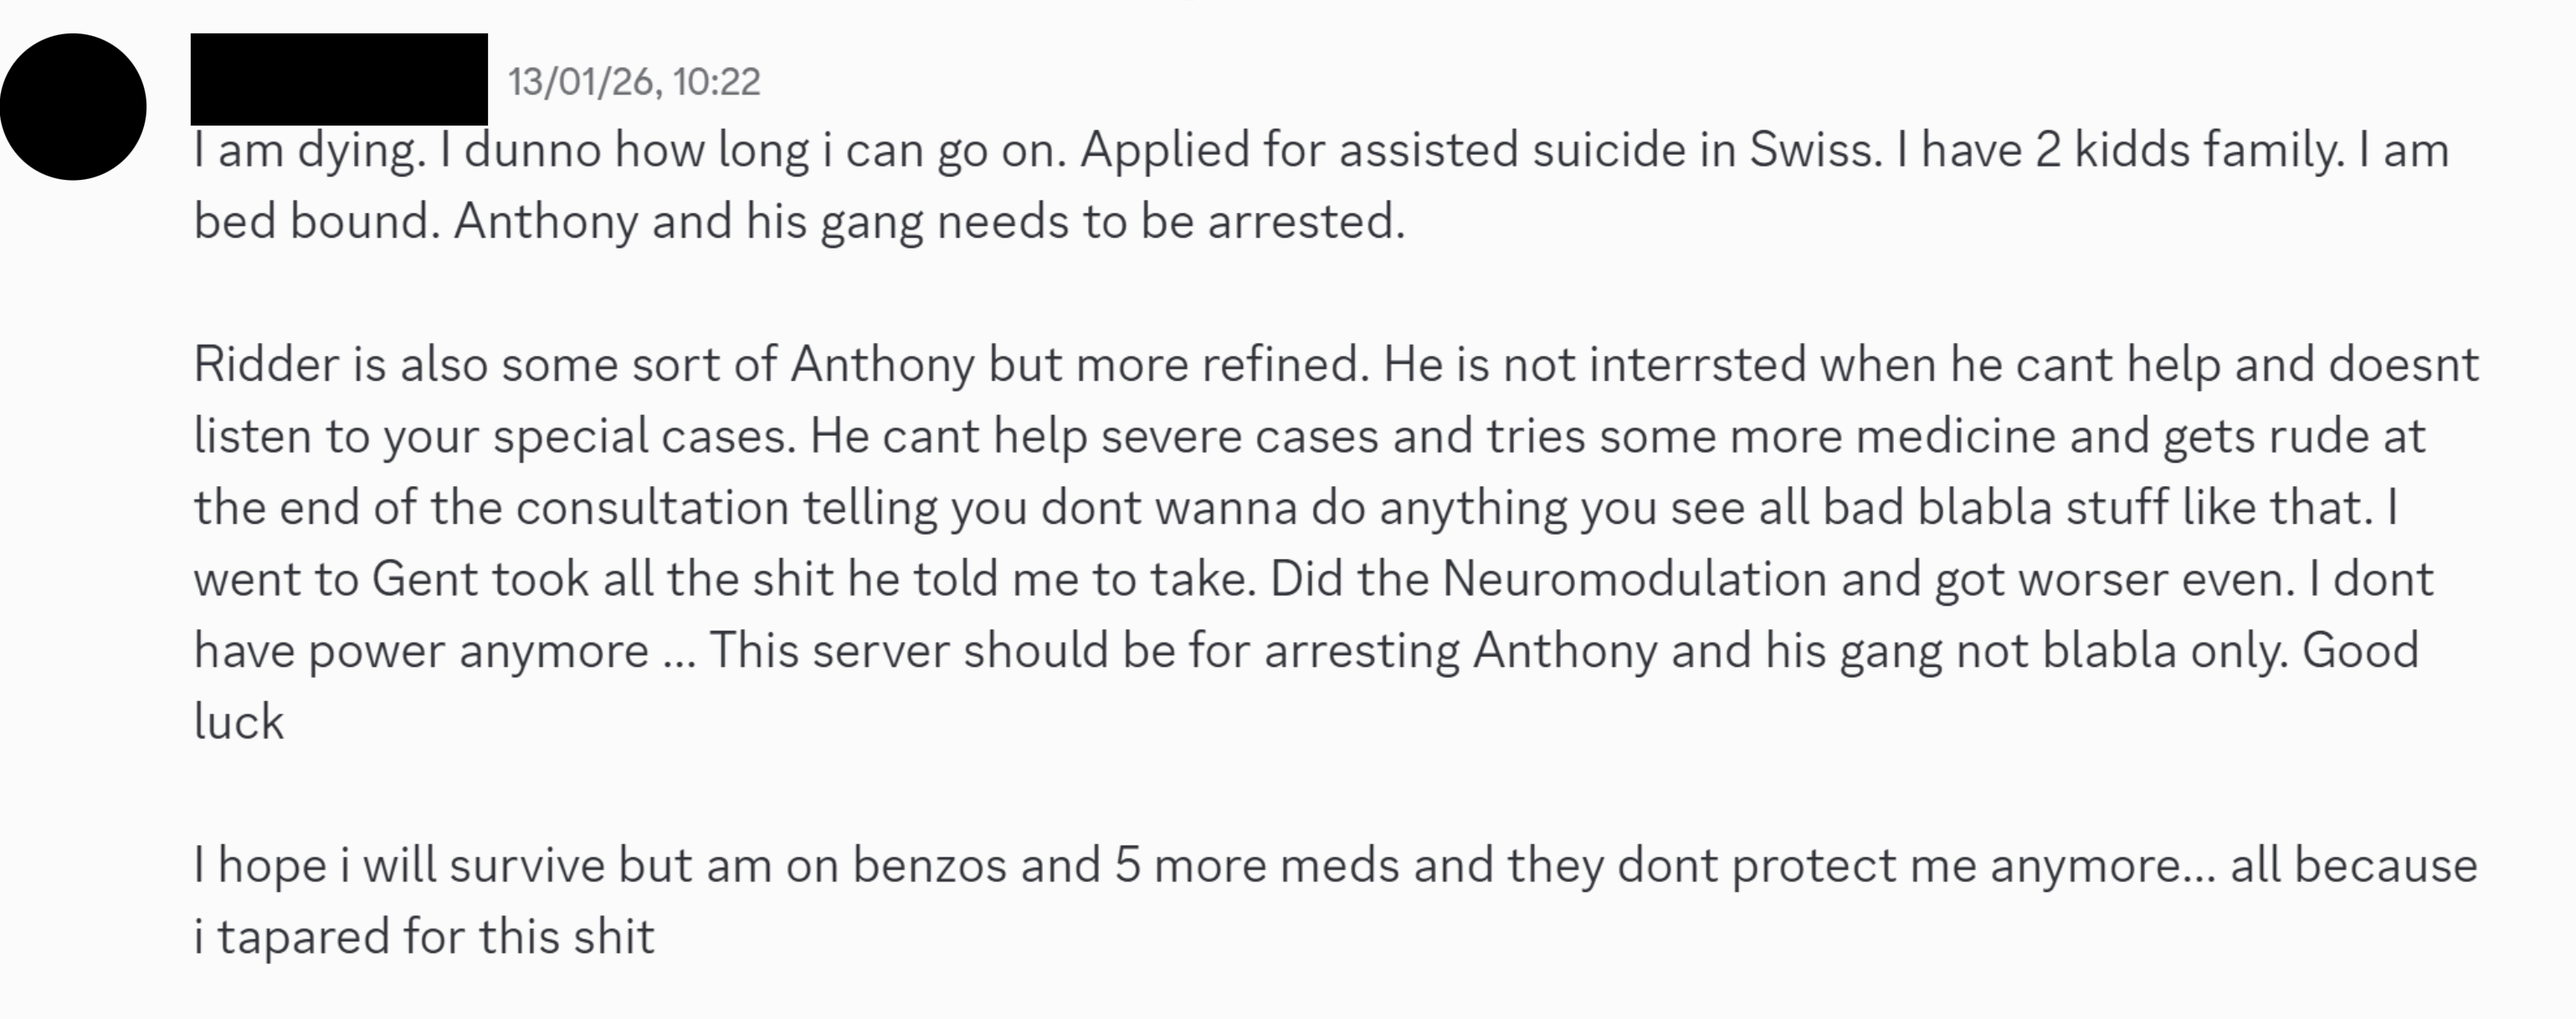
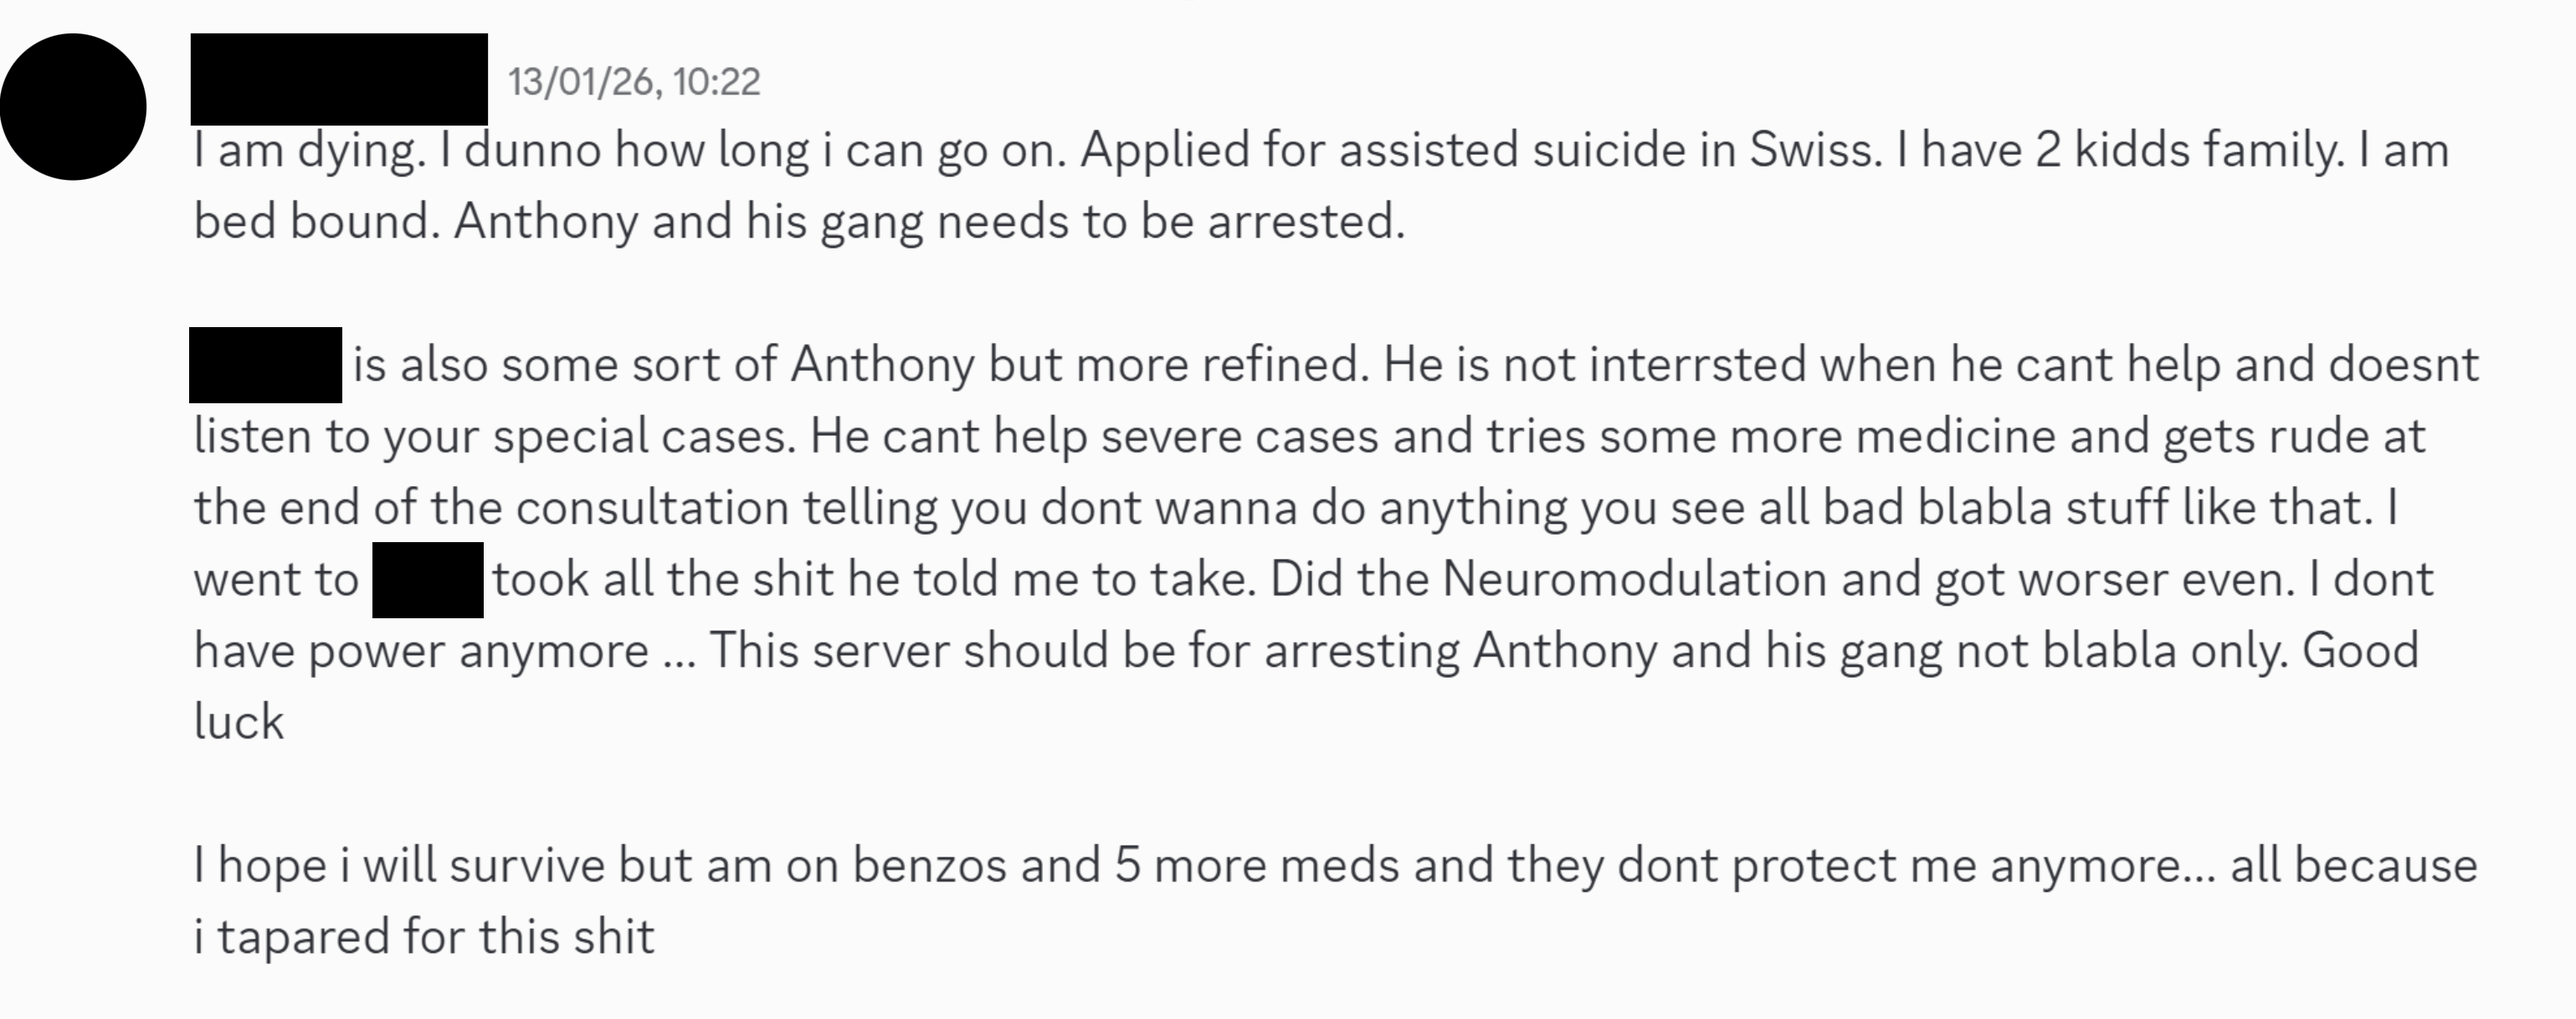
final edits

Changed region(s): [[0.0624, 0.312, 0.1559, 0.4056], [0.1248, 0.5304, 0.1871, 0.624]]

diff --git a/index.html b/index.html
@@ -191,7 +191,7 @@ p strong {
 
     <p>In late 2024, an unregulated experiment began circulating through online tinnitus communities. The participants suffered from debilitating hearing disorders such as tinnitus (phantom sounds like ringing), hyperacusis (normal sounds perceived as unbearably loud), and noxacusis (physical pain from sound). Many were isolated and homebound, with few treatment options and little hope of relief. An anonymous figure known as <strong>"Anthony"</strong> invited them to try an experimental device called the "Guinea Guy Device", or <strong>GGD</strong>. He presented it as scientifically grounded, modeled after published research by University of Michigan audiologist <strong>Dr. Susan Shore</strong>. This association with Shore's research lent the GGD scientific credibility, even though it had never been clinically tested.</p>
 
-    <p>Dr. Shore and her team at the University of Michigan developed a neuromodulation device to treat somatic tinnitus, a form of tinnitus that changes with jaw, neck, or facial movement. The device, which became known as the Susan Shore Device or SSD, uses precisely timed pairs of sound and mild electrical pulses to retrain the neural pathways involved in generating tinnitus. Clinical trials found meaningful reductions in symptoms for many participants, and the technology has since been licensed to a company called <a href="https://www.auricleinc.com/" target="_blank">Auricle</a> which is preparing it for Food and Drug Administration (FDA) review and commercial release. The SSD consists of a single earbud for audio delivery, small adhesive electrodes placed on the cheek or neck, and a handheld control unit that synchronizes sound with electrical stimulation. </p>
+    <p>Dr. Shore and her team at the University of Michigan developed a neuromodulation device to treat somatic tinnitus, a form of tinnitus that changes with jaw, neck, or facial movement. The device, which became known as the <strong>Susan Shore Device</strong> or <strong>SSD</strong>, uses precisely timed pairs of sound and mild electrical pulses to retrain the neural pathways involved in generating tinnitus. Clinical trials found meaningful reductions in symptoms for many participants, and the technology has since been licensed to a company called <a href="https://www.auricleinc.com/" target="_blank">Auricle</a> which is preparing it for Food and Drug Administration (FDA) review and commercial release. The SSD consists of a single earbud for audio delivery, small adhesive electrodes placed on the cheek or neck, and a handheld control unit that synchronizes sound with electrical stimulation. </p>
   
     <img src="assets/images/ssd-image.png">
 
@@ -279,8 +279,8 @@ p strong {
 
     <p>During this transition, Anthony framed the GGD as a significant technical step forward. In one update video, he described the rebuilt device as “the epitome of any type of DIY Susan Shore device that could possibly be built.” He attributed earlier failures to the incompetence of Sergei and positioned the GGD as a finished and optimized build rather than an experimental prototype. Following this change, development appeared to move more quickly, and devices were prepared for shipment within a relatively short period of time.</p>
 
-    <p>As the project entered its final pre-shipment phase, one of the Tinnitus Labs moderators, Luca, became Anthony's primary assistant. Luca assembled a comprehensive <a href="https://docs.google.com/document/d/1qJGGApheOe-4BpLJHzhXB6HChgld5lIIOIAZL59O4Fs/edit?tab=t.jprm7hy21bbt" target="_blank">FAQ</a> explaining the treatment protocol and payment process, then took on the responsibility of shipping Batch 1. Anthony traveled to Italy to meet him, and the two tested the first units together before Luca began mailing them to participants. By this point, the waitlist had expanded into the hundreds.</p>
-   
+    <p>As the project entered its final pre-shipment phase, one of the Tinnitus Labs moderators, Luca, became Anthony's primary assistant. Luca compiled a comprehensive <a href="https://docs.google.com/document/d/1qJGGApheOe-4BpLJHzhXB6HChgld5lIIOIAZL59O4Fs/edit?tab=t.jprm7hy21bbt" target="_blank">FAQ</a> from information provided by Anthony, explaining the treatment protocol and payment process, then took on the responsibility of shipping Batch 1. Anthony traveled to Italy to meet him, and the two tested the first units together before Luca began mailing them to participants. By this point, the waitlist had expanded into the hundreds.</p>   
+    
     <p>In mid-2025, approximately eight months after Anthony first collected payments and announced the trial, the first batch of devices was finally ready to ship. When Anthony announced Batch 1 was shipping, the atmosphere shifted from anticipation to celebration.Participants followed the process through photos, tracking updates, and server messages. Though only a fraction of the waitlist would receive their GGDs in this batch, the community treated the shipment as validation that their long wait and emotional investment had been worthwhile.</p>
    
     <p>>As participants prepared to begin treatment, Anthony outlined a six-week protocol he said was necessary for the GGD to be effective. He emphasized that outcomes depended on maintaining a stable nervous system throughout the treatment period. Participants were advised to avoid activities and substances he believed could increase inflammation or disrupt neurological stability, including intense physical exertion, sugar, caffeine, sexual activity, and spicy foods. The protocol required a strict low-histamine diet and significantly reducing stimulation by remaining indoors and minimizing exposure to noise for six weeks. Participants were even told they might need to take time off work to adhere to the protocol.</p>
@@ -399,7 +399,7 @@ p strong {
 
     <img src="assets/images/cost.png">
 
-    <p>The rising costs prompted some members to look more closely at the financial side of the project. One disillusioned participant exported the transaction history from the <a href="https://etherscan.io/tokentxns?a=0xfa512e09574175f5e72561b4768a0e7f54c1c58c" target="_blank">crypto wallet</a> address Anthony had provided for payments and found that it had taken in more than $150,000 over the course of the trial. What raised further concern was the pattern of outgoing payments. Instead of simple withdrawals to a single account, the funds were routed through many intermediary wallets before converging in a small cluster of sink wallets connected to various exchanges. The transfers resembled the layered routing pattern associated with cryptocurrency tumblers, services designed to obscure the origin and destination of funds by mixing them with other transactions. This was not the straightforward spending one would expect from legitimate project expenses.</p>
+    <p>The rising costs prompted some members to look more closely at the financial side of the project. One disillusioned participant exported the transaction history from the <a href="https://etherscan.io/tokentxns?a=0xfa512e09574175f5e72561b4768a0e7f54c1c58c" target="_blank">crypto wallet</a> address Anthony had provided for payments and found that, as of December 2025, it had taken in more than $150,000 over the course of the trial. What raised further concern was the pattern of outgoing payments. Instead of simple withdrawals to a single account, the funds were routed through many intermediary wallets before converging in a small cluster of sink wallets connected to various exchanges. The transfers resembled the layered routing pattern associated with cryptocurrency tumblers, services designed to obscure the origin and destination of funds by mixing them with other transactions. This was not the straightforward spending one would expect from legitimate project expenses.</p>
 
     <p>When questioned directly about the $150,000 figure, Anthony did not deny it. He responded by stating that the project's overall costs were "around $100–150k" and maintained that, despite the scale of funds involved, he was not making any profit.</p>
 
@@ -415,12 +415,13 @@ p strong {
   
     <p>As financial scrutiny intensified, attention increasingly shifted beyond Anthony himself to the expanding role of Jo Ann, the incentives surrounding her involvement, and the broader financial structure that had grown around the trial.</p>
 
-    <p>Luca had served as Anthony's assistant for many months and contributed significantly to the project's early operations. A few months after Batch 1 was sent out, Anthony announced that Jo Ann would be taking over device setup and shipping. Luca was removed from his assistant role, with no clear explanation given to the broader community. In private messages, Jo Ann told others that Luca had stepped down because the workload was too overwhelming and that he wanted time to focus on his treatment. However, screenshots of private messages between Luca and Anthony show no indication that Luca requested to leave the assistant role. In those same messages, Anthony stated that the role was reassigned because Jo Ann <strong>"severely needs the extra money,"</strong> suggesting a different motivation for shifting the responsibilities.</p>
-  
+    <p>Luca had served as Anthony's assistant for many months and contributed significantly to the project's early operations. A few months after Batch 1 was sent out, Anthony announced that Jo Ann would be taking over device setup and shipping. Luca was removed from his assistant role, with no clear explanation given to the broader community. In a private server used by the women of the community, Jo Ann told others that Luca had stepped down because the workload was too overwhelming and that he wanted time to focus on his treatment. However, screenshots of private messages between Luca and Anthony show no indication that Luca requested to leave the assistant role. In those same messages, Anthony stated that the role was reassigned because Jo Ann "severely needs the extra money," suggesting a different motivation for shifting the responsibilities.</p>  
+    
     <img src="assets/images/luca-anthony-dm.png">
+    <img src="assets/images/jo-ann-lie.jpg">
 
-    <p>Jo Ann's financial situation was well known within the community. She often mentioned that her husband had been laid off and was struggling to find stable employment. In a private server used by the women in the community, she talked about needing money and the financial pressure she was under. This context aligned with her motivation to pursue a paid role within the project.</p>
-
+    <p>Jo Ann's financial situation was well known within the community. She often mentioned that her husband had been laid off and was struggling to find stable employment. Inside the women’s server, she talked about needing money and the financial pressure she was under. This context aligned with her motivation to pursue a paid role within the project.</p>
+    
     <img src="assets/images/jo-ann-broke.png">
 
     <p>When Jo Ann introduced her treatment support fee, it called attention to the fact that others had volunteered to do the work she was now charging for. Anthony posted a message inviting anyone “open to 20–30 hours of training and helping everyone with their setups” to contact him. Several members stepped forward, interpreting the message as a genuine request for help. Their willingness to help left Jo Ann in an embarrassing position, prompting her to frame Anthony’s request for help as a joke. She later wrote that it would be “impossible for several people to do this,” citing confidentiality, and the difficulty of training anyone else, adding that “there is no room for error here, all of this is classified.”</p>
